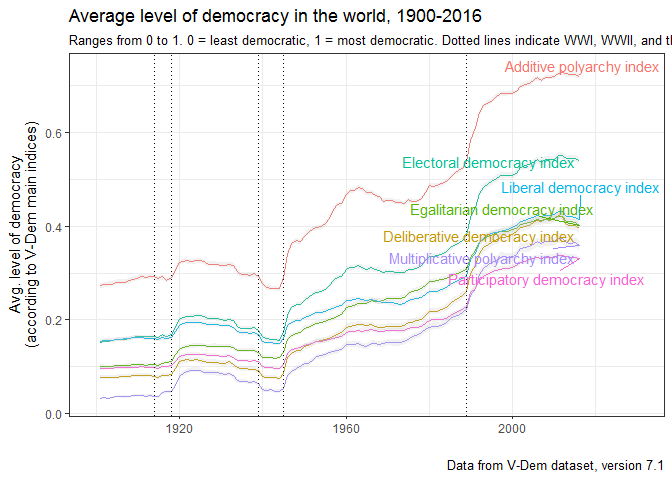
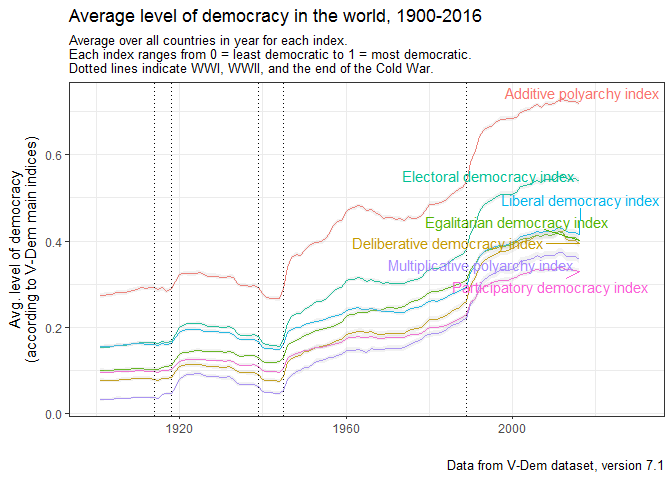
Fixed subtitle in figures in README - clearer now, I hope.

diff --git a/README.md b/README.md
@@ -268,7 +268,7 @@ ggplot(data %>% filter(year > 1900)) +
     labs(y = "Avg. level of democracy\n(according to V-Dem main indices)",
          color = "", x = "",
          title = "Average level of democracy in the world, 1900-2016",
-         subtitle = "Ranges from 0 to 1. 0 = least democratic, 1 = most democratic. Dotted lines indicate WWI, WWII, and the end of the Cold War.",
+         subtitle = "Average over all countries in year for each index.\nEach index ranges from 0 = least democratic to 1 = most democratic.\nDotted lines indicate WWI, WWII, and the end of the Cold War.",
          caption = "Data from V-Dem dataset, version 7.1") +
   geom_vline(xintercept = c(1914, 1918, 1939, 1945, 1989), linetype = 3) +
   coord_cartesian(xlim = c(1900, 2030))
@@ -322,7 +322,7 @@ ggplot(data) +
     labs(y = "Avg. level of democracy\n(according to V-Dem main indices)",
          color = "", x = "",
          title = "Average level of democracy in selected countries, 1900-2016",
-         subtitle = "Ranges from 0 to 1. 0 = least democratic, 1 = most democratic. Dotted lines indicate WWI, WWII, and the end of the Cold War.",
+         subtitle = "Each index ranges from 0 = least democratic to 1 = most democratic.\nDotted lines indicate WWI, WWII, and the end of the Cold War.",
          caption = "Data from V-Dem dataset, version 7.1") +
   geom_vline(xintercept = c(1914, 1918, 1939, 1945, 1989), linetype = 3) +
   geom_hline(yintercept = 0.5, color = "red") +
